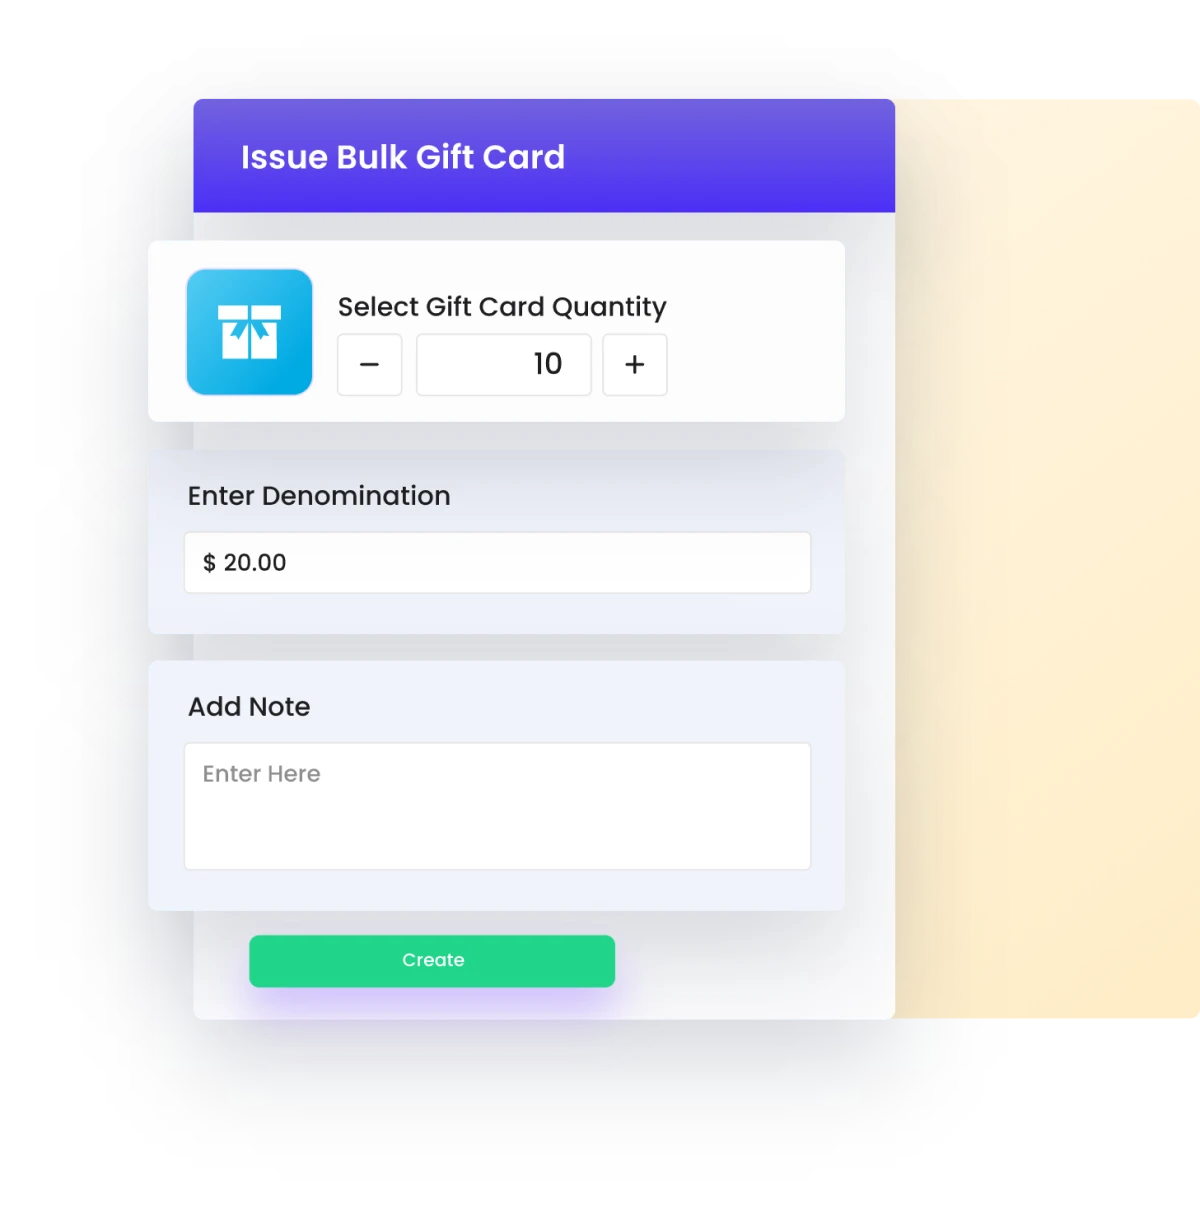
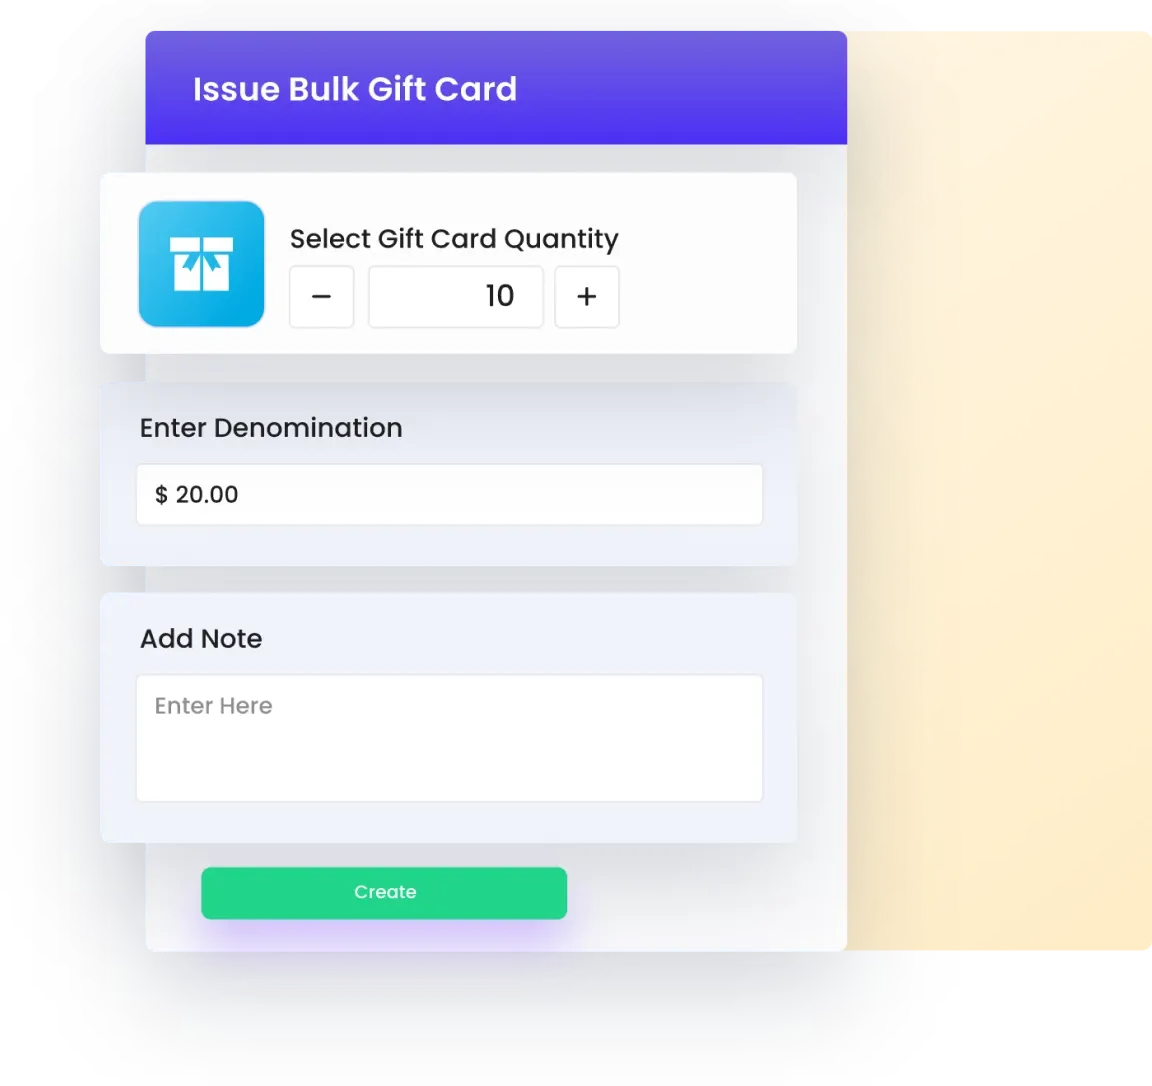
Changes in Gift card page

diff --git a/src/components/features/GiftCardFeatures.jsx b/src/components/features/GiftCardFeatures.jsx
@@ -138,7 +138,7 @@ export default function GiftCardFeatures() {
                     ? featuresData[activeIndex].title
                     : featuresData[0].title
                 }
-                className="rounded-2xl w-[600px] h-auto object-cover"
+                className="rounded-2xl w-auto h-[450px] object-cover"
                 initial={{ opacity: 0 }}
                 animate={{ opacity: 1 }}
                 exit={{ opacity: 0 }}
